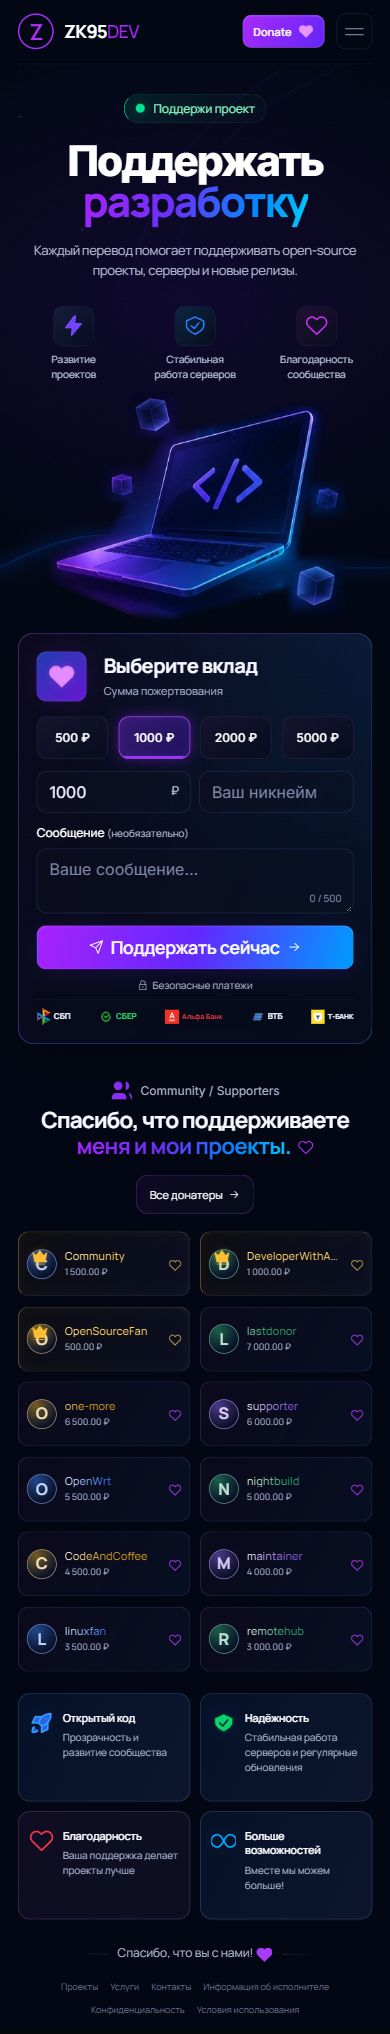
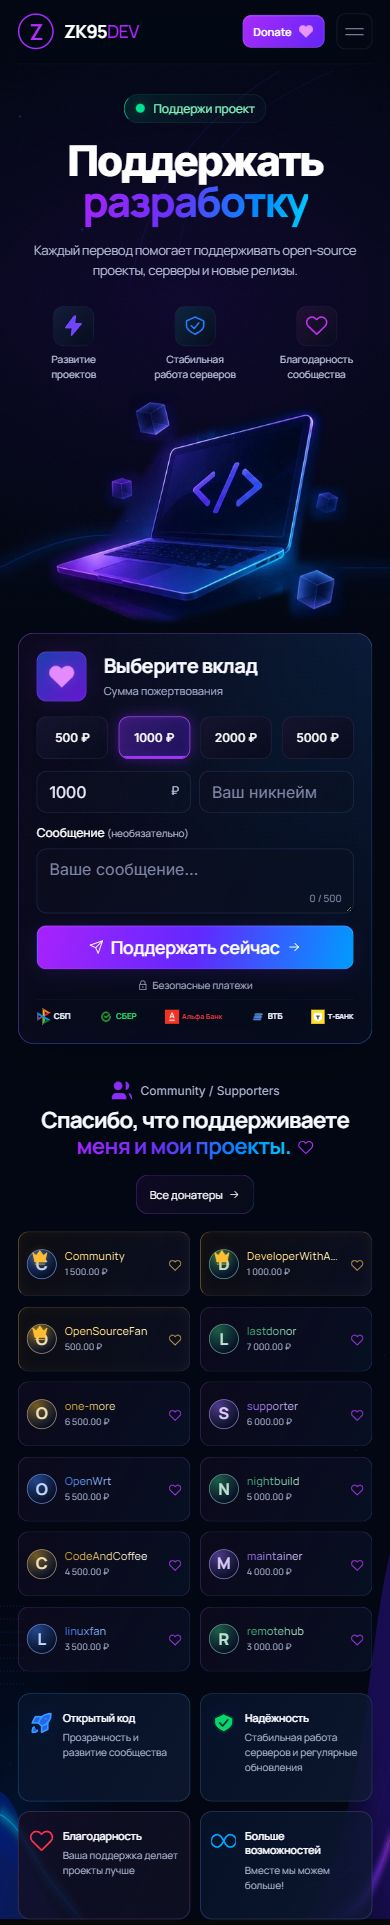
Remove public footer and expand Cyber background across viewport

diff --git a/static/css/cyber.css b/static/css/cyber.css
@@ -16,13 +16,14 @@ body.theme-cyber {
   color: var(--text);
   color-scheme: dark;
   background: #020713;
+  position: relative;
   isolation: isolate;
 }
 .theme-cyber [hidden] { display: none !important; }
 .theme-cyber .shell, .theme-cyber .site-header { width: min(var(--max), calc(100% - 64px)); }
 .theme-cyber::before, .theme-cyber::after { content: ''; position: absolute; inset: 0; pointer-events: none; z-index: -2; }
-.theme-cyber::before { background: url('../img/cyber-scene-top.svg') center top / max(100%, 1536px) 568px no-repeat; }
-.theme-cyber::after { background: url('../img/cyber-scene-bottom.svg') center bottom / max(100%, 1536px) 640px no-repeat; }
+.theme-cyber::before { background: url('../img/cyber-scene-top.svg?v=2') center top / 100% 568px no-repeat; }
+.theme-cyber::after { background: url('../img/cyber-scene-bottom.svg?v=2') center bottom / 100% 640px no-repeat; }
 .theme-cyber .grain { opacity: .012; }
 .theme-cyber svg { flex-shrink: 0; vertical-align: middle; }
 .theme-cyber a, .theme-cyber button, .theme-cyber input, .theme-cyber textarea { -webkit-tap-highlight-color: transparent; }
@@ -135,7 +136,7 @@ body.theme-cyber {
 .theme-cyber .cyber-supporters .donor-more-actions { display: none; }
 .theme-cyber .cyber-supporters .empty-state { grid-column: 1 / -1; }
 
-/* Feature strip and quiet footer. */
+/* Feature strip. */
 .theme-cyber .cyber-features { display: grid; grid-template-columns: repeat(4, minmax(0, 1fr)); gap: 17px; padding-bottom: 0; }
 .cyber-feature { display: flex; gap: 20px; align-items: flex-start; min-width: 0; min-height: 93px; padding: 18px 19px; border: 1px solid #2c699880; border-radius: 16px; background: linear-gradient(120deg, #07132bd9, #101a35bb); }
 .cyber-feature:nth-child(2) { border-color: #4c678466; }.cyber-feature:nth-child(3) { border-color: #71478a80; background: linear-gradient(120deg, #130d24d9, #101326b3); }.cyber-feature:nth-child(4) { border-color: #58509288; }
@@ -143,14 +144,6 @@ body.theme-cyber {
 .cyber-feature:first-child svg { fill: #2863eb; stroke: #329cff; }.cyber-feature:nth-child(2) .cyber-feature-icon { color: #08d874; }.cyber-feature:nth-child(2) svg { fill: #09d474; stroke: #082f22; }.cyber-feature:nth-child(3) .cyber-feature-icon { color: #fd324d; }.cyber-feature:nth-child(4) .cyber-feature-icon { color: #00aaff; }
 .theme-cyber .cyber-feature h3 { margin: 1px 0 6px; font-size: 13px; font-weight: 600; letter-spacing: -.3px; line-height: 1.25; }
 .cyber-feature p { font-size: 11px; line-height: 1.55; color: #a9b2ce; margin: 0; }
-.cyber-footer { padding: 23px 0 13px; border: 0; }
-.cyber-footer-thanks { display: flex; align-items: center; justify-content: center; gap: 20px; margin: 0; font-size: 14px; color: #b0b7d1; }
-.cyber-footer-thanks::before, .cyber-footer-thanks::after { content: ''; height: 1px; width: 90px; background: linear-gradient(90deg, transparent, #6b7eaa4d); }
-.cyber-footer-thanks::after { transform: rotate(180deg); }
-.cyber-footer-thanks svg { color: #b134ff; fill: #a83bfa; }
-.cyber-footer-links { display: flex; justify-content: center; flex-wrap: wrap; gap: 7px 16px; margin-top: 16px; }
-.cyber-footer-links a { font-size: 9px; color: #697394; text-decoration: none; }
-.cyber-footer-links a:hover { color: #d2b0ff; }
 .theme-cyber [data-cyber-reveal] { transition: opacity .5s, transform .5s; }
 .theme-cyber .cyber-reveal-ready.is-visible { animation: cyber-reveal .55s ease-out; }
 .theme-cyber.cyber-calm::before, .theme-cyber.cyber-calm::after { opacity: .4; }
@@ -208,7 +201,6 @@ body.theme-cyber {
   .theme-cyber .cyber-supporters { padding: 15px 0 22px; }.theme-cyber .cyber-section-head { flex-direction: column; align-items: center; text-align: center; gap: 16px; margin-bottom: 17px; }.theme-cyber .cyber-section-head .eyebrow { justify-content: center; font-size: 12px; gap: 7px; }.theme-cyber .cyber-supporters h2 { font-size: clamp(21px, 5.7vw, 30px) !important; letter-spacing: -.7px; line-height: 1.16; }.cyber-heading-heart svg { width: 16px; height: 16px; }.cyber-all-donors { min-height: 40px; font-size: 11px; }
   .theme-cyber .cyber-supporters .donor-grid { grid-template-columns: repeat(2, minmax(0, 1fr)); gap: 10px; }.theme-cyber .cyber-supporters .donor-card { min-height: 65px; gap: 8px; padding: 8px; border-radius: 11px; }.cyber-donor-avatar { width: 30px; height: 30px; font-size: 16px; }.cyber-donor-crown { left: 4px; }.cyber-donor-crown svg { width: 17px; height: 17px; }.theme-cyber .cyber-donor-copy .donor-name { font-size: 11px; }.cyber-donor-details { font-size: 9px; gap: 2px; }.cyber-donor-details time { font-size: 8px; }.cyber-donor-heart svg { width: 13px; height: 13px; }.cyber-donor-note { font-size: 8px; }
   .theme-cyber .cyber-features { grid-template-columns: repeat(2, minmax(0, 1fr)); gap: 10px; }.cyber-feature { gap: 9px; min-height: 108px; padding: 16px 10px; border-radius: 12px; }.cyber-feature-icon { width: 25px; }.cyber-feature-icon svg { width: 25px; height: 25px; }.theme-cyber .cyber-feature h3 { font-size: 11px; line-height: 1.35; margin: 0 0 5px; }.cyber-feature p { font-size: 10px; line-height: 1.5; }
-  .cyber-footer { padding-top: 25px; }.cyber-footer-thanks { gap: 10px; font-size: 12px; }.cyber-footer-thanks::before, .cyber-footer-thanks::after { width: 30px; }.cyber-footer-links { gap: 8px 12px; }.cyber-footer-links a { font-size: 9px; }
 }
 @media (max-width: 360px) {
   .theme-cyber .shell, .theme-cyber .site-header { width: calc(100% - 28px); }.theme-cyber .site-header { gap: 8px; }.theme-cyber .brand { font-size: 16px; gap: 8px; }.theme-cyber .brand-mark { width: 32px; height: 32px; font-size: 20px; }.cyber-header-donate { padding-inline: 8px; font-size: 10px; }.cyber-header-donate svg { width: 12px; }

diff --git a/templates/admin/base.html b/templates/admin/base.html
@@ -1,2 +1,2 @@
 <!doctype html>
-<html lang="ru"><head><meta charset="utf-8"><meta name="viewport" content="width=device-width, initial-scale=1"><meta name="theme-color" content="#07080a"><link rel="icon" type="image/svg+xml" href="{{ url_for('static', filename='favicon.svg') }}"><link rel="manifest" href="{{ url_for('static', filename='manifest.webmanifest') }}"><link rel="apple-touch-icon" sizes="180x180" href="{{ url_for('static', filename='apple-touch-icon.png') }}"><meta name="apple-mobile-web-app-capable" content="yes"><meta name="apple-mobile-web-app-status-bar-style" content="black-translucent"><title>{% block title %}Admin — ZKS95{% endblock %}</title><link rel="stylesheet" href="{{ url_for('static', filename='css/style.css') }}">{% if site_theme == 'cyber' %}<link rel="stylesheet" href="{{ url_for('static', filename='css/cyber.css', v='reference-2') }}"><link rel="stylesheet" href="{{ url_for('static', filename='css/cyber-shared.css', v='1') }}">{% endif %}{% block head %}{% endblock %}</head><body class="admin-body theme-{{ site_theme }} visual-effect-{{ visual_effect }} visual-speed-{{ visual_speed }}"><div class="visual-layer" aria-hidden="true"></div><header class="admin-header"><a class="brand" href="{{ url_for('admin.dashboard') }}"><span class="brand-mark">Z</span><span>ZKS95<span class="brand-muted">/ADMIN</span></span></a>{% if admin_username %}<nav class="admin-nav"><a href="{{ url_for('admin.dashboard') }}">Обзор</a><a href="{{ url_for('admin.payments') }}">Платежи</a><a href="{{ url_for('admin.donors') }}">Донатеры</a><a href="{{ url_for('admin.notifications') }}">Уведомления</a><a href="{{ url_for('admin.settings') }}">Настройки</a><a href="{{ url_for('admin.account') }}">Аккаунт</a><form method="post" action="{{ url_for('admin.logout') }}"><input type="hidden" name="csrf_token" value="{{ csrf_token() }}"><button>Выйти</button></form></nav>{% endif %}</header><main class="admin-main">{% with messages=get_flashed_messages(with_categories=true) %}{% for category,message in messages %}<div class="flash flash-{{ category }}">{{ message }}</div>{% endfor %}{% endwith %}{% block content %}{% endblock %}</main>{% block scripts %}{% endblock %}</body></html>
+<html lang="ru"><head><meta charset="utf-8"><meta name="viewport" content="width=device-width, initial-scale=1"><meta name="theme-color" content="#07080a"><link rel="icon" type="image/svg+xml" href="{{ url_for('static', filename='favicon.svg') }}"><link rel="manifest" href="{{ url_for('static', filename='manifest.webmanifest') }}"><link rel="apple-touch-icon" sizes="180x180" href="{{ url_for('static', filename='apple-touch-icon.png') }}"><meta name="apple-mobile-web-app-capable" content="yes"><meta name="apple-mobile-web-app-status-bar-style" content="black-translucent"><title>{% block title %}Admin — ZKS95{% endblock %}</title><link rel="stylesheet" href="{{ url_for('static', filename='css/style.css') }}">{% if site_theme == 'cyber' %}<link rel="stylesheet" href="{{ url_for('static', filename='css/cyber.css', v='fullwidth-3') }}"><link rel="stylesheet" href="{{ url_for('static', filename='css/cyber-shared.css', v='1') }}">{% endif %}{% block head %}{% endblock %}</head><body class="admin-body theme-{{ site_theme }} visual-effect-{{ visual_effect }} visual-speed-{{ visual_speed }}"><div class="visual-layer" aria-hidden="true"></div><header class="admin-header"><a class="brand" href="{{ url_for('admin.dashboard') }}"><span class="brand-mark">Z</span><span>ZKS95<span class="brand-muted">/ADMIN</span></span></a>{% if admin_username %}<nav class="admin-nav"><a href="{{ url_for('admin.dashboard') }}">Обзор</a><a href="{{ url_for('admin.payments') }}">Платежи</a><a href="{{ url_for('admin.donors') }}">Донатеры</a><a href="{{ url_for('admin.notifications') }}">Уведомления</a><a href="{{ url_for('admin.settings') }}">Настройки</a><a href="{{ url_for('admin.account') }}">Аккаунт</a><form method="post" action="{{ url_for('admin.logout') }}"><input type="hidden" name="csrf_token" value="{{ csrf_token() }}"><button>Выйти</button></form></nav>{% endif %}</header><main class="admin-main">{% with messages=get_flashed_messages(with_categories=true) %}{% for category,message in messages %}<div class="flash flash-{{ category }}">{{ message }}</div>{% endfor %}{% endwith %}{% block content %}{% endblock %}</main>{% block scripts %}{% endblock %}</body></html>

diff --git a/templates/base.html b/templates/base.html
@@ -19,7 +19,7 @@
   <link rel="preconnect" href="https://fonts.gstatic.com" crossorigin>
   <link href="https://fonts.googleapis.com/css2?family=DM+Mono:wght@400;500&family=Manrope:wght@400;500;600;700;800{% if site_theme == 'cyber' %}&family=Inter:wght@400;500;600;700;800;900{% endif %}&display=swap" rel="stylesheet">
   <link rel="stylesheet" href="{{ url_for('static', filename='css/style.css') }}">
-  {% if site_theme == 'cyber' %}<link rel="stylesheet" href="{{ url_for('static', filename='css/cyber.css', v='reference-2') }}"><link rel="stylesheet" href="{{ url_for('static', filename='css/cyber-shared.css', v='1') }}">{% endif %}
+  {% if site_theme == 'cyber' %}<link rel="stylesheet" href="{{ url_for('static', filename='css/cyber.css', v='fullwidth-3') }}"><link rel="stylesheet" href="{{ url_for('static', filename='css/cyber-shared.css', v='1') }}">{% endif %}
   {% block head %}{% endblock %}
 </head>
 <body class="theme-{{ site_theme }} visual-effect-{{ visual_effect }} visual-speed-{{ visual_speed }}">
@@ -38,7 +38,6 @@
   </header>
   {% endif %}
   <main>{% block content %}{% endblock %}</main>
-  {% if site_theme == 'cyber' %}{% include 'themes/cyber/_footer.html' %}{% endif %}
   <script src="{{ url_for('static', filename='js/app.js', v='themes-1') }}" defer></script>
   {% if site_theme == 'cyber' %}<script src="{{ url_for('static', filename='js/cyber.js', v='reference-2') }}" defer></script>{% endif %}
   {% block scripts %}{% endblock %}

diff --git a/templates/themes/cyber/_header.html b/templates/themes/cyber/_header.html
@@ -4,9 +4,6 @@
   <button class="menu-toggle" aria-label="Открыть меню" aria-expanded="false" aria-controls="cyber-navigation"><span></span><span></span></button>
   <nav class="nav-links" id="cyber-navigation" aria-label="Основная навигация">
     <a href="{{ url_for('site.donate') }}" {% if request.endpoint == 'site.donate' %}aria-current="page"{% endif %}>{{ icon('home',16) }} Главная</a>
-    <a href="{{ url_for('site.donate', _anchor='features') }}">Возможности</a>
-    <a href="{{ url_for('site.donate', _anchor='donate-form') }}">Поддержка</a>
-    <a href="{{ url_for('site.contact') }}" {% if request.endpoint == 'site.contact' %}aria-current="page"{% endif %}>Контакты</a>
   </nav>
   <div class="cyber-header-actions">
     <button type="button" class="cyber-ambient-toggle" aria-label="Уменьшить свечение и анимацию" title="Уменьшить свечение и анимацию" aria-pressed="false">{{ icon('sun',14) }}{{ icon('moon',13) }}</button>

diff --git a/templates/themes/cyber/_footer.html b/templates/themes/cyber/_footer.html
@@ -1,8 +1,1 @@
-{% from 'themes/cyber/_icons.html' import icon %}
-<footer class="cyber-footer shell">
-  <p class="cyber-footer-thanks"><span>Спасибо, что вы с нами! {{ icon('heart',17) }}</span></p>
-  <nav class="cyber-footer-links" aria-label="Информация о сайте">
-    <a href="{{ url_for('site.projects') }}">Проекты</a><a href="{{ url_for('site.services') }}">Услуги</a><a href="{{ url_for('site.contact') }}">Контакты</a>
-    <a href="{{ url_for('site.requisites') }}">Информация об исполнителе</a><a href="{{ url_for('site.privacy') }}">Конфиденциальность</a><a href="{{ url_for('site.terms') }}">Условия использования</a>
-  </nav>
-</footer>
+{# Public footer removed at the owner's request. #}

diff --git a/docs/THEME-VALIDATION.md b/docs/THEME-VALIDATION.md
@@ -60,8 +60,12 @@
 
 Дополнительные библиотеки отсутствуют. Для точного повторения нового референса используется локальная WebP-иллюстрация ноутбука. Фоновые волны — SVG; JavaScript темы не требует библиотек. CSS новой темы загружается только в Premium Cyber. Все изображения интерфейса локальные, существующая загрузка шрифтов сохранена.
 
-В рабочий сайт не добавляются вымышленные донатеры, суммы, даты, аватары или платежи. Юридические реквизиты доступны по прежнему `/requisites`, новая тема включает ссылку в футере.
+В рабочий сайт не добавляются вымышленные донатеры, суммы, даты, аватары или платежи. Юридические реквизиты доступны по прежнему `/requisites`.
 
 ## Обновление по изображению владельца
 
 Композиция Premium Cyber переработана по новому референсу: шапка 64 px, крупный двухстрочный заголовок, ноутбук из картинки, компактная форма, четыре колонки узких карточек донатеров, горизонтальные карточки возможностей и лаконичный футер. Снова проверены восемь ширин от 320 до 1920 px, мобильное меню, суммы, сообщение, ошибка оплаты, раскрытие донатеров и переключатель свечения. Источники изображений и изменения перечислены в [CYBER-REFERENCE.md](CYBER-REFERENCE.md).
+
+## Последующая корректировка фона и навигации
+
+По запросу владельца убраны публичный футер и пункты меню «Возможности», «Поддержка», «Контакты». Исправлено растягивание SVG-декораций на всю ширину окна и привязка к полной высоте страницы. Повторно проверены 1920 px и 390 px, отсутствие горизонтального переполнения и мобильное меню. Скриншоты обновлены; 15 тестов `tests/test_site_themes.py` проходят.

diff --git a/docs/CYBER-REFERENCE.md b/docs/CYBER-REFERENCE.md
@@ -9,8 +9,8 @@
 - Компактная платёжная форма с теми же суммой, никнеймом и сообщением. Никнейм сохранён рядом с произвольной суммой. Ограничение сообщения остаётся 500 символов.
 - Четыре колонки донатеров на компьютере, три на планшетах, одна или две на телефонах. Первые 12 видны сразу, остальные раскрываются кнопкой.
 - Вместо фотографий чужих людей из макета используются инициалы реальных донатеров. Имена, суммы, даты, ссылки и закрепление берутся из существующей базы. Для закреплённых добавлены корона и золотой акцент.
-- Секция возможностей повторяет горизонтальные карточки референса. Внизу — благодарность и компактные ссылки на существующие документы.
-- SVG-волны, световые дуги и точки масштабируются отдельно от контента. Мобильная версия перестраивается вертикально.
+- Секция возможностей повторяет горизонтальные карточки референса. Публичный футер и пункты меню «Возможности», «Поддержка», «Контакты» убраны по последующему запросу владельца.
+- SVG-волны, световые дуги и точки масштабируются отдельно от контента. Фон растягивается на всю ширину окна и привязан к высоте всей страницы. Мобильная версия перестраивается вертикально.
 - Переключатель солнца/луны уменьшает свечение и отключает движение ноутбука. Выбор хранится только на текущем устройстве; глобальную тему посетитель не меняет. Системное `prefers-reduced-motion` также учитывается.
 
 ## Источники изображений

diff --git a/docs/THEMES.md b/docs/THEMES.md
@@ -11,7 +11,7 @@
 
 ## Что меняется
 
-Red / Black сохраняет существующую вёрстку. У Premium Cyber своя композиция страницы доната: три зоны первого экрана, иллюстрация ноутбука из предоставленного референса, стеклянная форма, сине-фиолетовые акценты, карточки донатеров, четыре информационные карточки и футер. Общие страницы и административная часть получают соответствующую палитру.
+Red / Black сохраняет существующую вёрстку. У Premium Cyber своя композиция страницы доната: три зоны первого экрана, иллюстрация ноутбука из предоставленного референса, стеклянная форма, сине-фиолетовые акценты, карточки донатеров и четыре информационные карточки. Общие страницы и административная часть получают соответствующую палитру. Публичный футер убран по запросу владельца.
 
 Обе темы используют одну базу данных, платёжный API, webhook, лимиты, учётные записи, 2FA, reCAPTCHA и push-подписки. Выбор темы не меняет платёжные ключи и реквизиты. Настроенный глобальный эффект продолжает работать вместе с темой.
 
